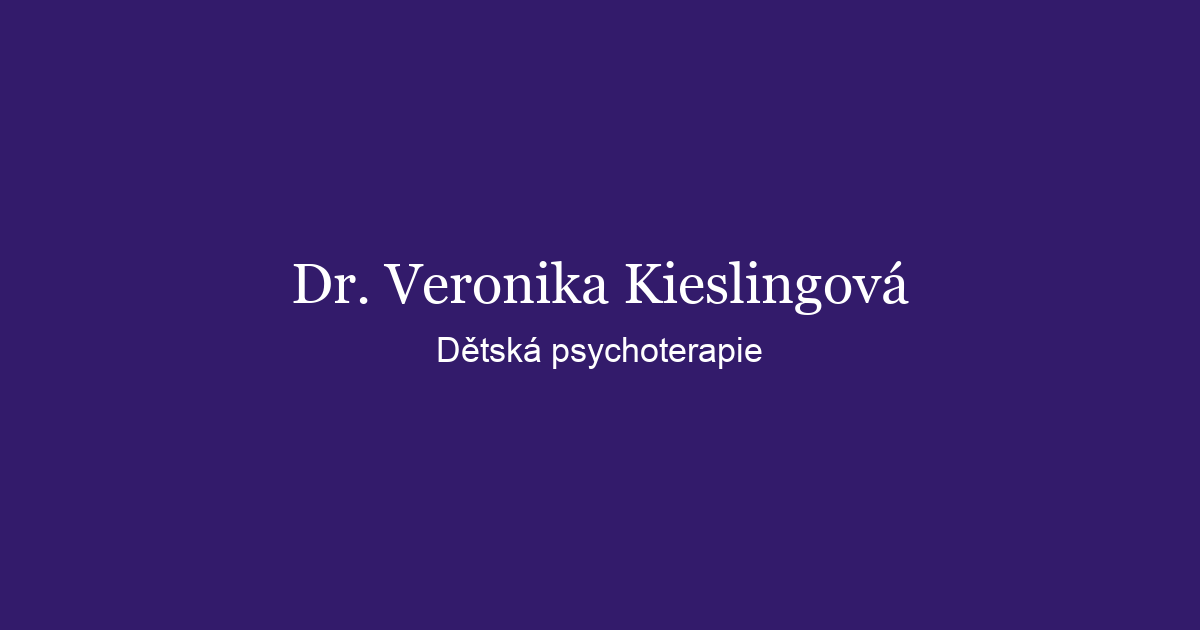
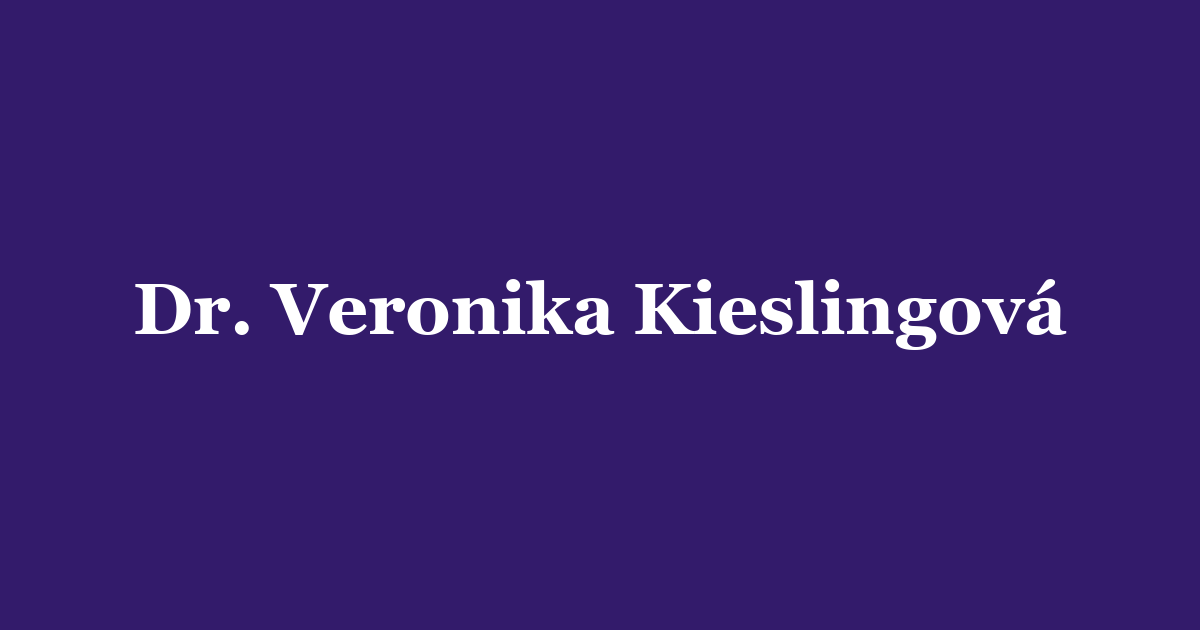
Hero H1: dva řádky (span) + desktop nowrap; OG obrázek fialová + jméno; CSS v4; odstranění zbytečných PNG.
Made-with: Cursor

Changed region(s): [[0.0925, 0.4222, 0.8942, 0.573]]

diff --git a/index.html b/index.html
@@ -15,9 +15,9 @@
       href="https://fonts.googleapis.com/css2?family=Montserrat:wght@400;500;600;700&family=Playfair+Display:ital,wght@0,600;0,700;1,600&display=swap"
       rel="stylesheet"
     />
-    <link rel="stylesheet" href="styles.css?v=3" />
+    <link rel="stylesheet" href="styles.css?v=4" />
     <link rel="canonical" href="https://detska-psychoterapie.cz/" />
-    <!-- Náhled při sdílení: textový obrázek (ne fotka z hero) -->
+    <!-- Náhled při sdílení: fialové pozadí + jméno (žádná fotka); ?v= pro invalidaci cache -->
     <meta property="og:type" content="website" />
     <meta property="og:locale" content="cs_CZ" />
     <meta property="og:url" content="https://detska-psychoterapie.cz/" />
@@ -31,13 +31,13 @@
     />
     <meta
       property="og:image"
-      content="https://detska-psychoterapie.cz/images/og-share.png"
+      content="https://detska-psychoterapie.cz/images/og-share.png?v=4"
     />
     <meta property="og:image:width" content="1200" />
     <meta property="og:image:height" content="630" />
     <meta
       property="og:image:alt"
-      content="Dr. Veronika Kieslingová — Dětská psychoterapie"
+      content="Dr. Veronika Kieslingová"
     />
     <meta name="twitter:card" content="summary_large_image" />
     <meta
@@ -50,7 +50,7 @@
     />
     <meta
       name="twitter:image"
-      content="https://detska-psychoterapie.cz/images/og-share.png"
+      content="https://detska-psychoterapie.cz/images/og-share.png?v=4"
     />
   </head>
   <body>
@@ -116,8 +116,8 @@
         <div class="hero__text">
           <p class="hero__kicker" data-i18n="hero_kicker">DĚTSKÁ PSYCHOTERAPIE PRAHA 6</p>
           <h1 class="hero__title" data-i18n="hero_title" data-i18n-html>
-            Bezpečný prostor<br />
-            pro růst vašeho dítěte
+            <span class="hero__title-line">Bezpečný prostor</span
+            ><span class="hero__title-line">pro růst vašeho dítěte</span>
           </h1>
           <p class="hero__perex" data-i18n="hero_perex">
             Psychologická a speciálně pedagogická péče pro děti, dospívající a jejich rodiny. Soukromá praxe v Praze 6 — bez žádanky, s diskrétností a lidským přístupem.

diff --git a/styles.css b/styles.css
@@ -398,14 +398,29 @@ section[id] {
   }
 }
 
+/* H1: 1. řádek „Bezpečný prostor“, 2. řádek „pro růst…“ — na desktopu celé řádky bez zalomení uvnitř, pokud šířka dovolí */
 .hero__title {
+  display: flex;
+  flex-direction: column;
+  align-items: flex-start;
   font-family: var(--font-serif);
   font-weight: 600;
   font-style: italic;
   color: var(--ink-hero);
   margin: 0 0 1.1rem;
   line-height: 1.15;
-  text-wrap: balance;
+  font-size: clamp(1.85rem, 4.2vw + 0.85rem, 3.35rem);
+}
+
+.hero__title-line {
+  display: block;
+  max-width: 100%;
+}
+
+@media (min-width: 768px) {
+  .hero__title-line {
+    white-space: nowrap;
+  }
 }
 
 .hero__perex {

diff --git a/i18n.js b/i18n.js
@@ -49,7 +49,7 @@
 
     hero_kicker: "KINDERPSYCHOTHERAPIE PRAG 6",
     hero_title:
-      "Ein sicherer Raum<br />für das Wachstum Ihres Kindes",
+      '<span class="hero__title-line">Ein sicherer Raum</span><span class="hero__title-line">für das Wachstum Ihres Kindes</span>',
     hero_perex:
       "Psychologische und heilpädagogische Betreuung für Kinder, Jugendliche und ihre Familien. Privatpraxis in Prag 6 — ohne Überweisung, diskret und persönlich.",
     hero_cta: "Termin vereinbaren",
